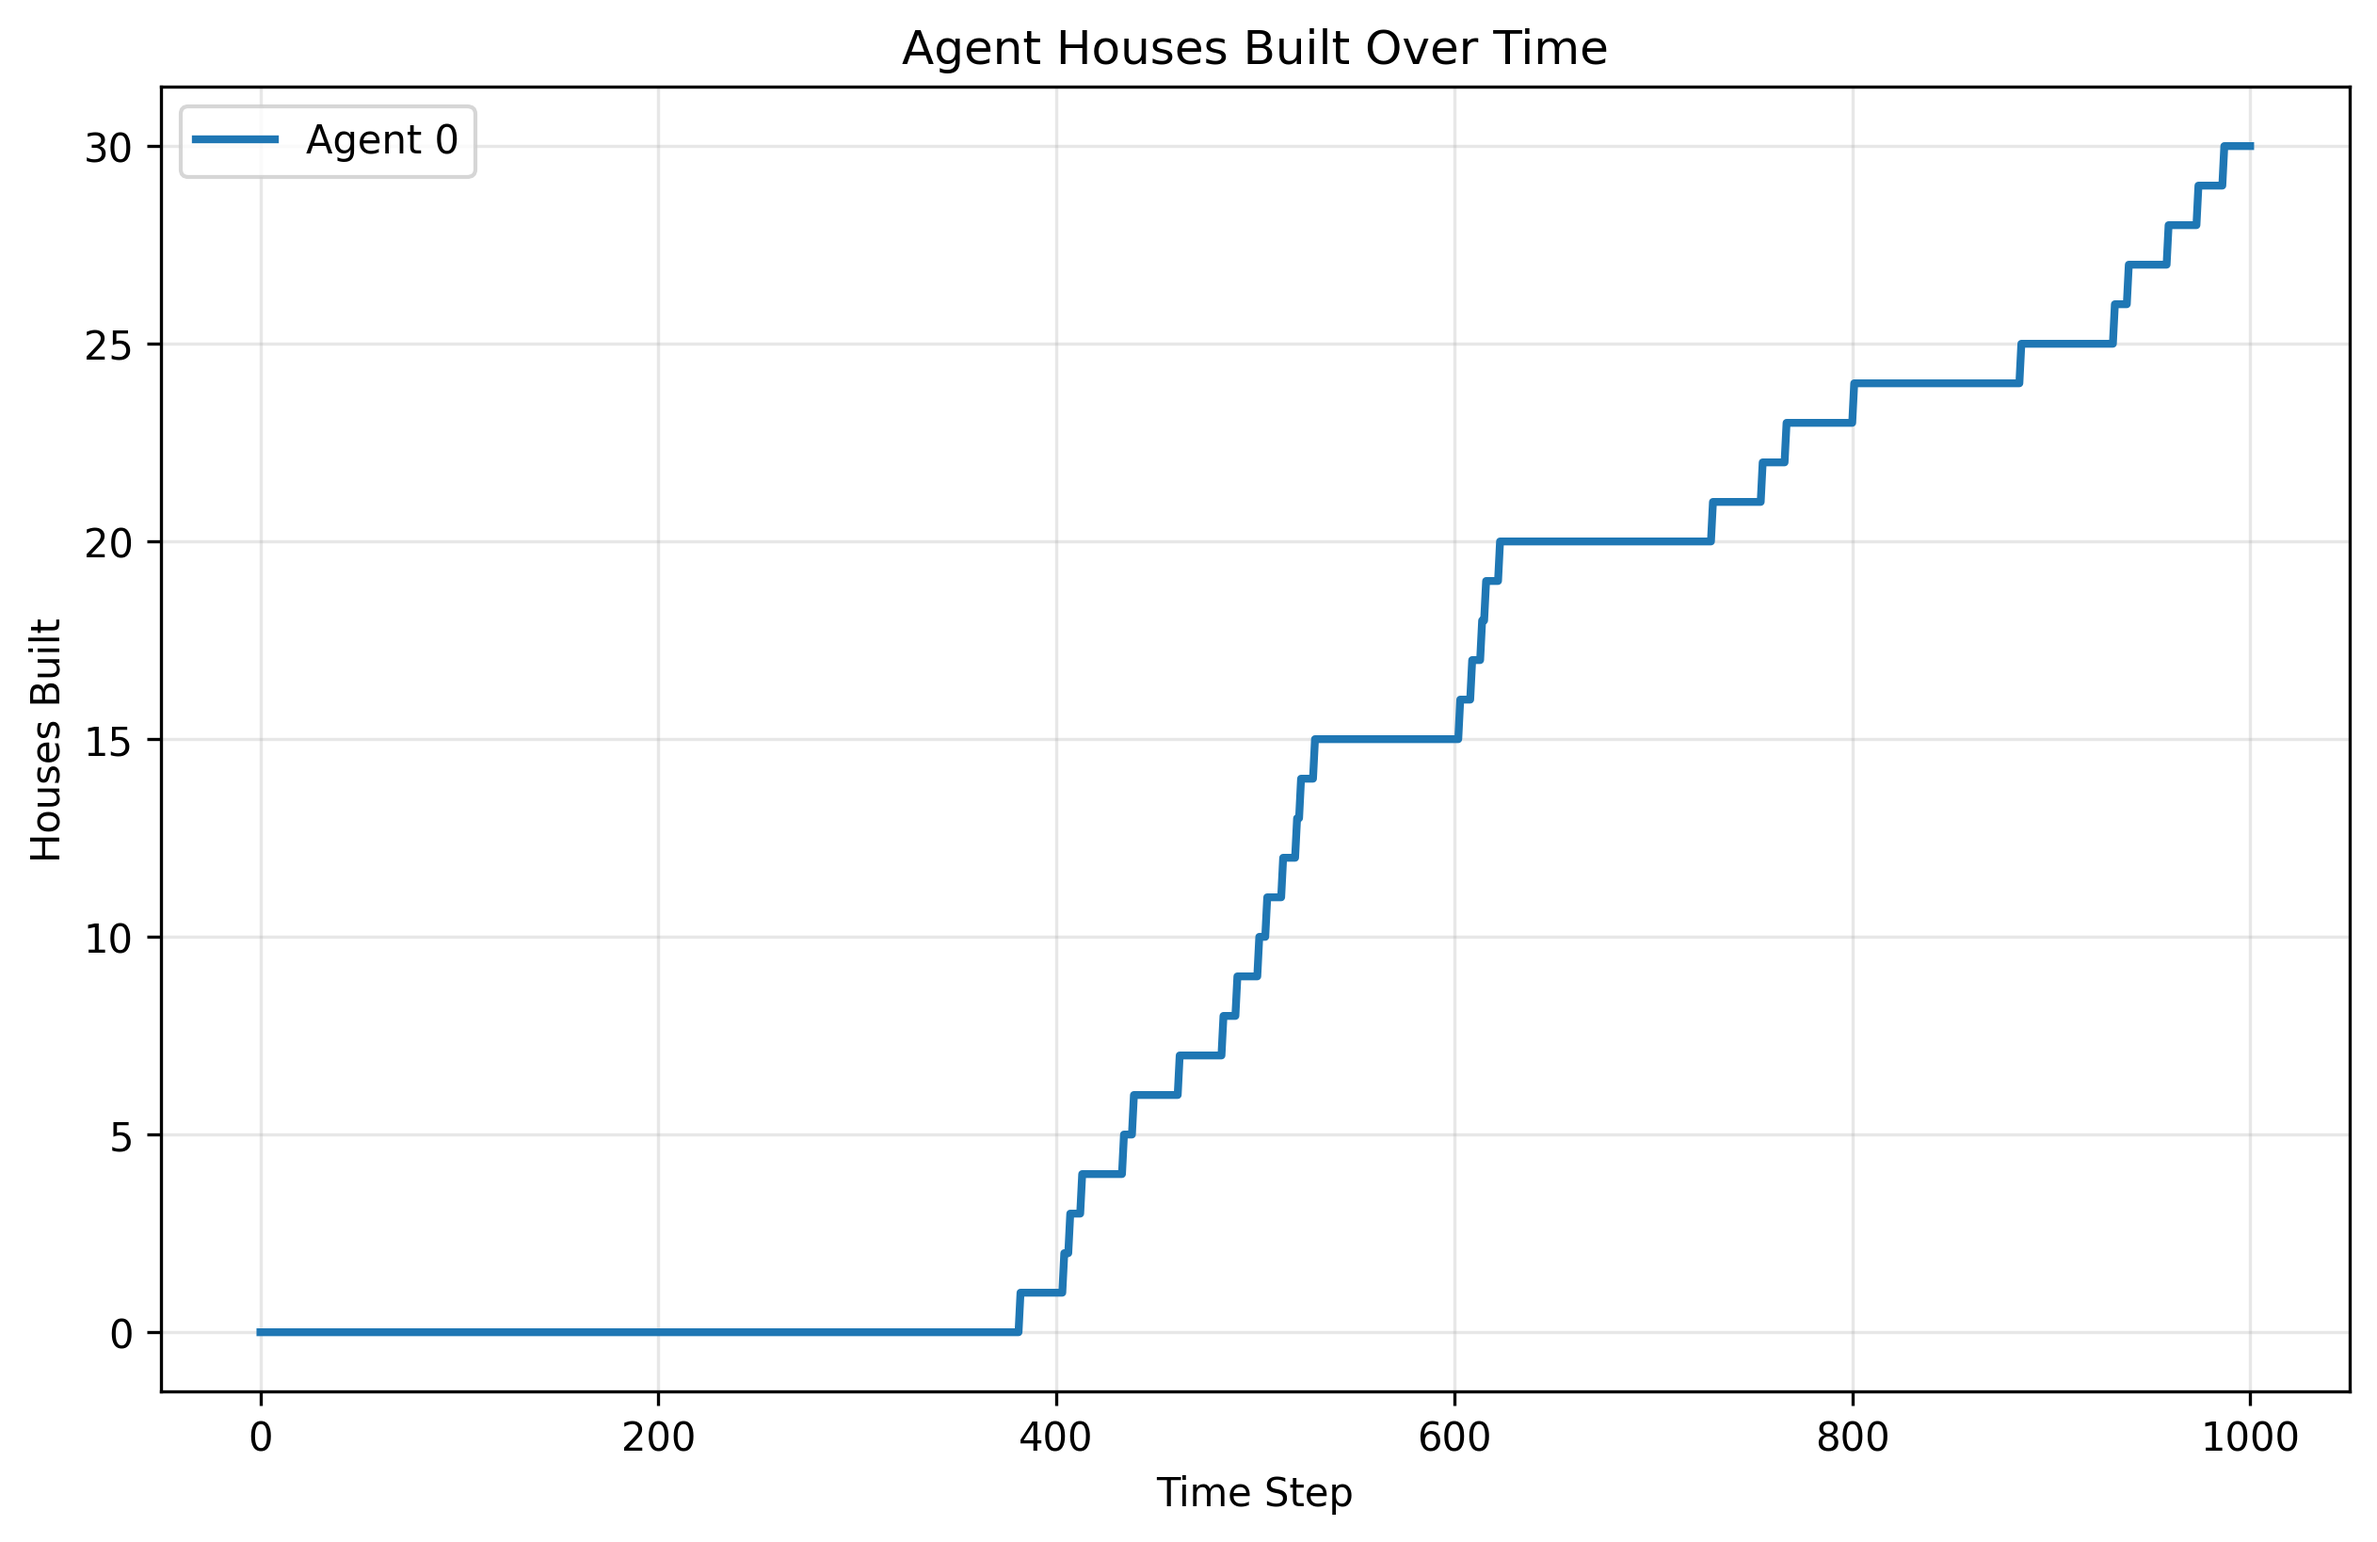
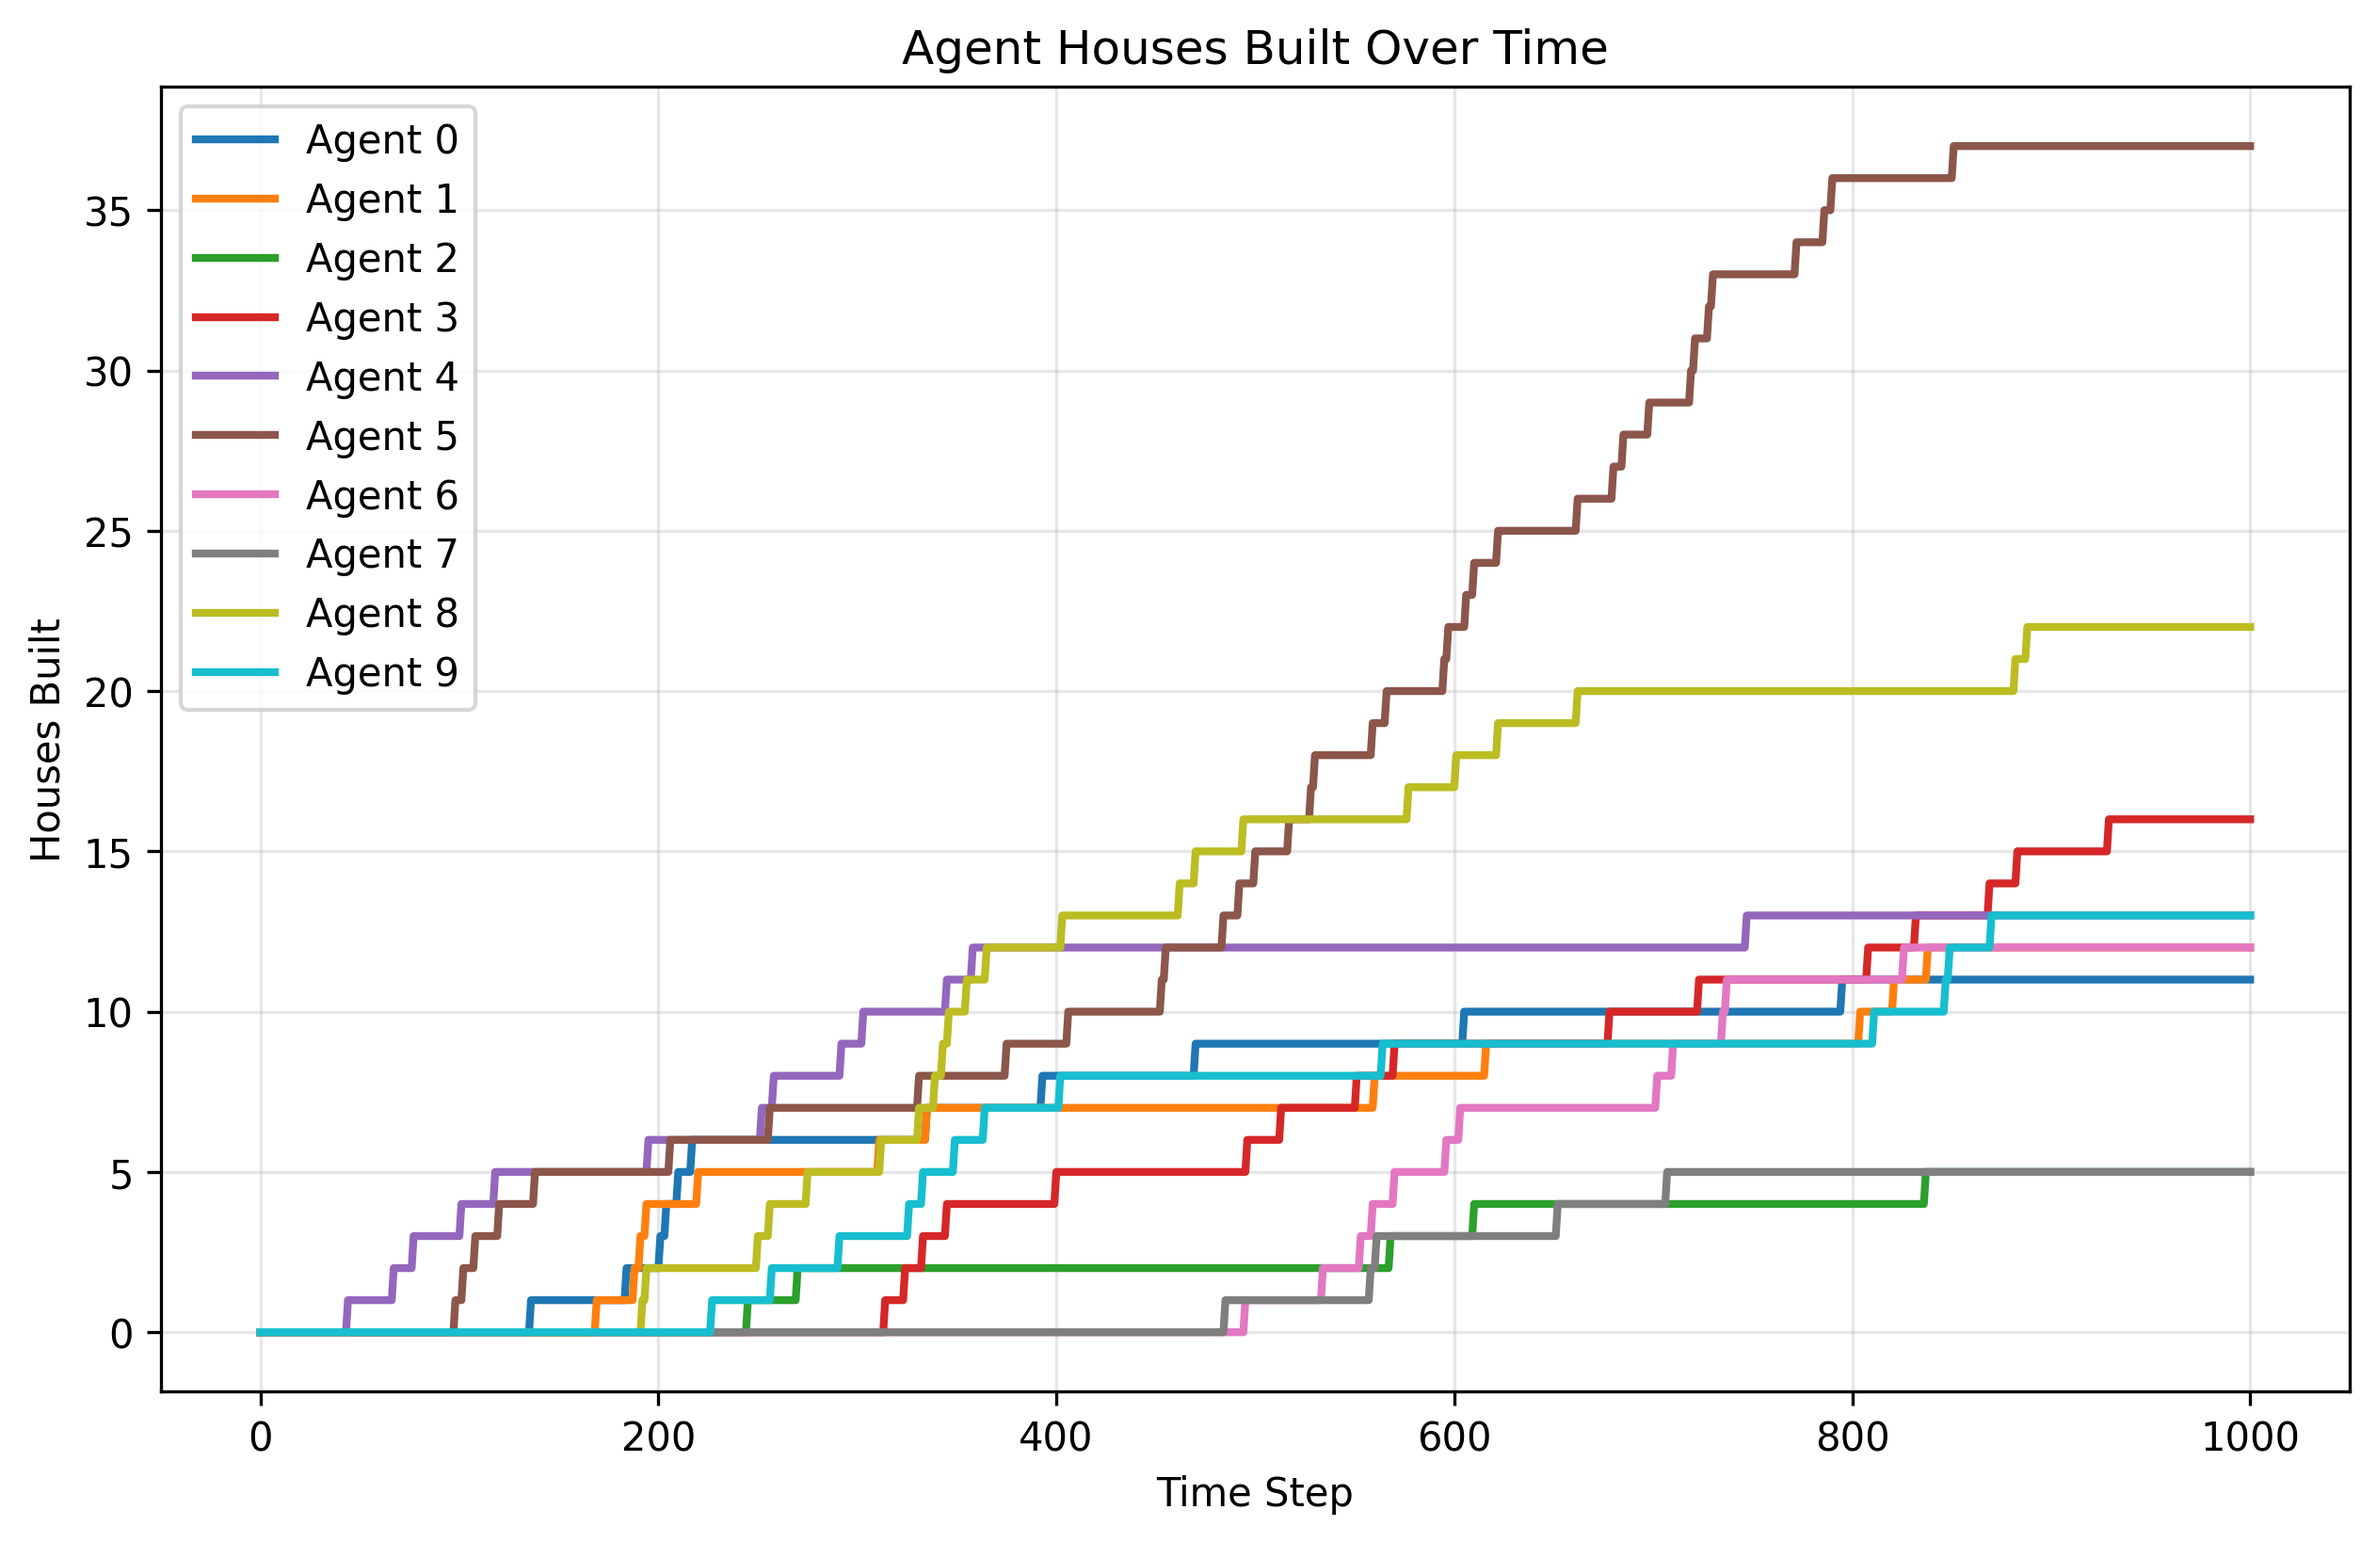
Fixes to plots

diff --git a/services/plotting_service.py b/services/plotting_service.py
@@ -85,9 +85,9 @@ class PlottingService:
     
     def _create_summary_plot(self, agents, plot_path, trading_system=None):
         """Create a summary plot with all metrics including market data if available."""
-        num_rows = 3
-        num_cols = 3
-        fig, axes = plt.subplots(num_rows, num_cols, figsize=(15, 15))
+        num_rows = 2
+        num_cols = 4
+        fig, axes = plt.subplots(num_rows, num_cols, figsize=(20, 10))
         axes = axes.flatten()
         
         # Plot agent metrics
@@ -103,7 +103,7 @@ class PlottingService:
             ax.set_xlabel('Time Step')
             ax.set_ylabel(self._format_metric_name(metric))
             ax.set_title(f'Agent {self._format_metric_name(metric)}')
-            ax.legend()
+            ax.legend(loc='upper left')
             ax.grid(True, alpha=0.3)
         
         # Plot market metrics if trading system is provided
@@ -150,10 +150,6 @@ class PlottingService:
             ax_prices.set_title('Resource Prices')
             ax_prices.legend(loc='upper left')
             ax_prices.grid(True, alpha=0.3)
-            
-            # Plot map state in the last subplot
-            ax_map = axes[8]
-            self._plot_map_state(self.env, agents, ax_map)
         
         plt.tight_layout()
         summary_filepath = os.path.join(plot_path, 'agent_metrics_summary.png')
@@ -224,10 +220,13 @@ class PlottingService:
             
         os.makedirs(plot_path, exist_ok=True)
         
-        # Create figure with enough space for legend
-        plt.figure(figsize=(12, 8))
+        # Create figure with space for legend below
+        fig = plt.figure(figsize=(12, 10))
         ax = plt.gca()
         self._plot_map_state(env, agents, ax)
+        
+        # Adjust layout to make room for legend
+        plt.subplots_adjust(bottom=0.2)  # Make space for legend at bottom
         
         # Save the plot
         filepath = os.path.join(plot_path, 'map_state.png')
@@ -275,7 +274,8 @@ class PlottingService:
         ax.set_yticks(np.arange(0, env.map_size[0], 1))
         
         ax.set_title('Map State')
-        ax.legend(bbox_to_anchor=(1.05, 1), loc='upper left')
+        # Place legend below the chart, centered and auto-wrapped
+        ax.legend(bbox_to_anchor=(0.5, -0.1), loc='center', ncol=4, bbox_transform=ax.transAxes)
             
     def plot_market_metrics(self, trading_system, config=None):
         """

diff --git a/scripts/dev_testing.py b/scripts/dev_testing.py
@@ -13,7 +13,7 @@ config = {
     'build_payout_max': 20,
     'build_payout_multiplier': 1.5,
     'risk_aversion': 0.5,
-    'n_agents': 1,
+    'n_agents': 10,
     'discount_factor': 0.95,
     'action_mechanism': "random",
     'episode_length': 1000,
